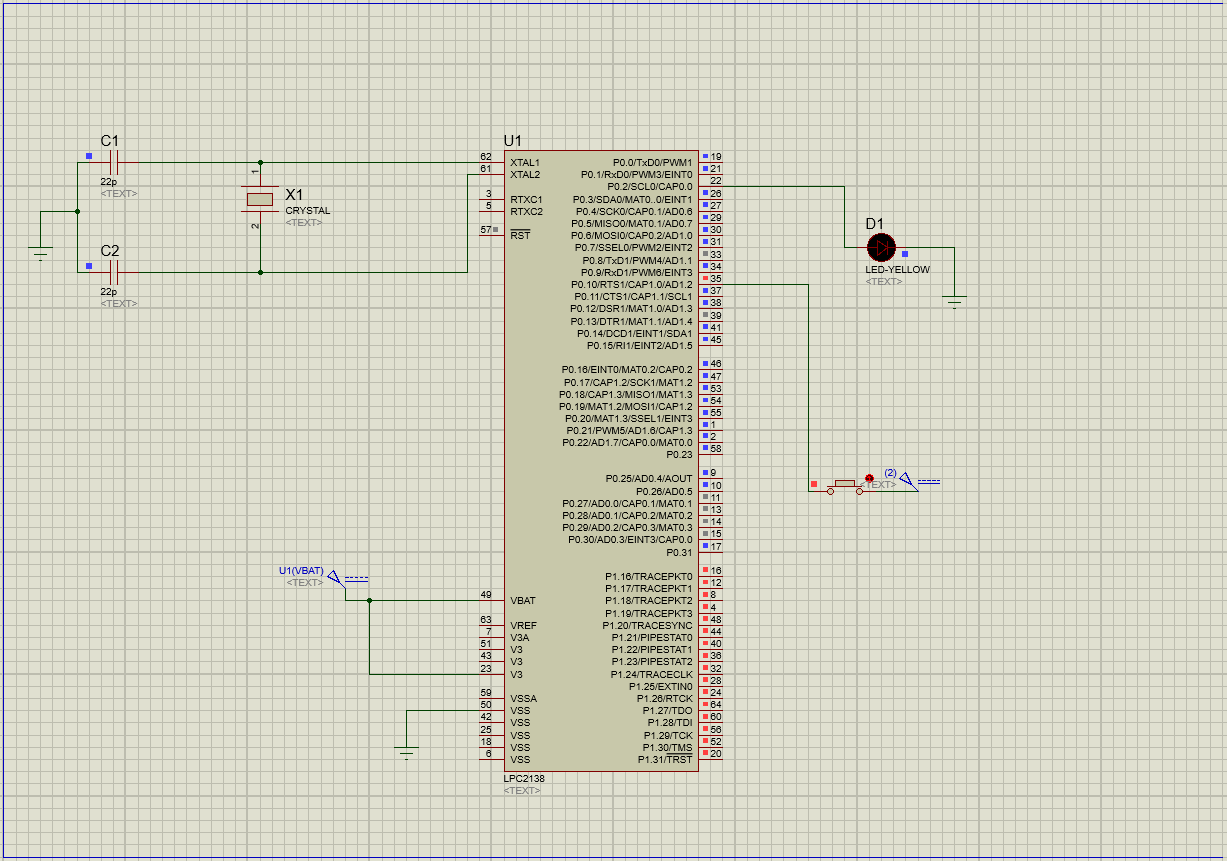
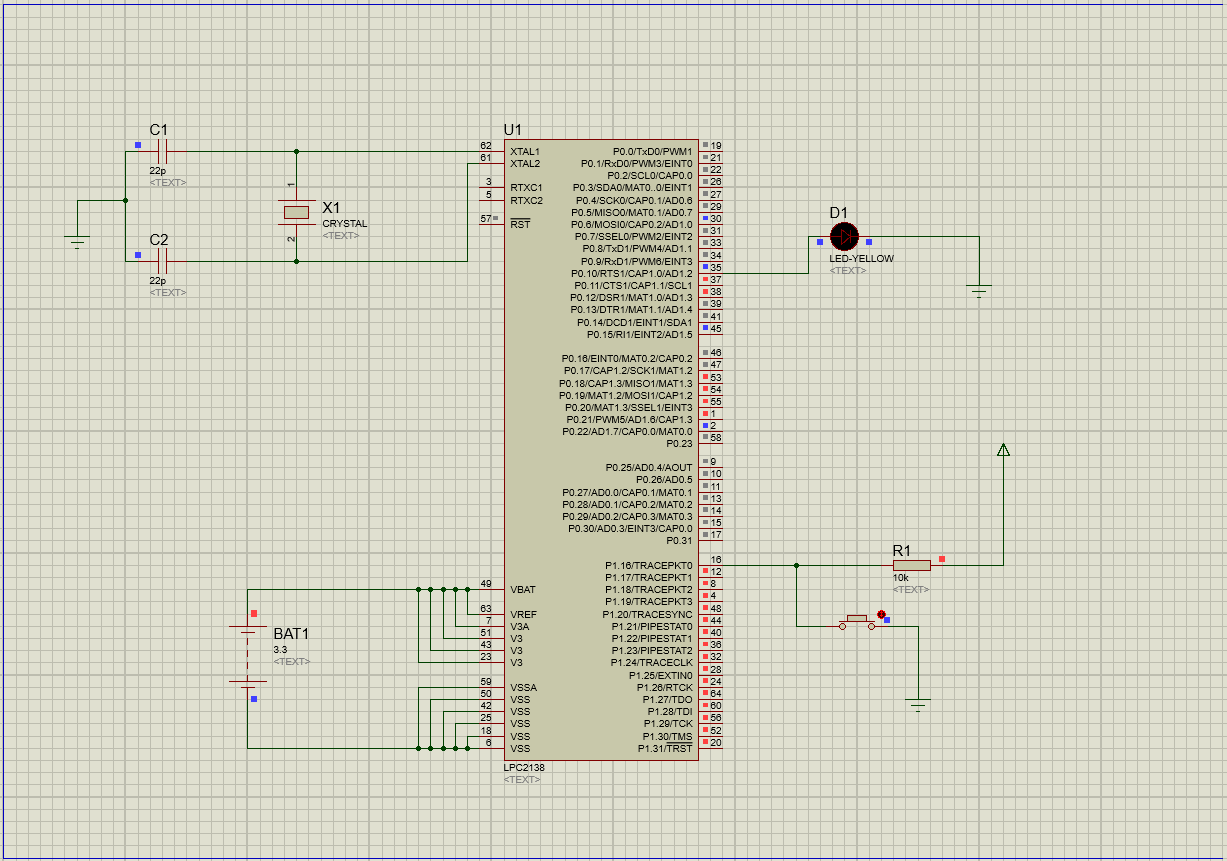
Completed

Changed region(s): [[0.0, 0.0, 1.0, 1.0]]

diff --git a/README.md b/README.md
@@ -118,27 +118,33 @@ Step 9: Select the hex file from the Kiel program folder and import the program 
 
 ## KIEL PROGRAM: 
 ```
-#include <LPC214x.h>   // define LPC2148 Header file
-#define led (1<<2)     // led macro for pin 2 of port0
-#define sw (1<<10)     // sw macro for pin 10 of port0
-int main(void)
+#include <lpc214x.h>
+
+// Input switches
+#define SW1	0x00010000				// P1.16
+
+// Output LEDs
+#define LED_D9	0x00000400 			// P0.10
+
+int main ()
 {
-	unsigned int x;
-	IO0DIR|=(~sw);   // configure P1.24 - P1.31 as input
-	IO0DIR|=led;     // configure P1.16 - P1.23 as output
+	IO0DIR = 0x003C3C00 ;			// Configure P0.10 to P0.13 and P0.18 to P0.21 as Output	
+	IO0SET = 0x003C3C00 ;			// SET (1) P0.10 to P0.13 and P0.18 to P0.21, LEDs OFF
 	while(1)
 	{
-		x = IOPIN0 & sw;   //save status of sw in variable x
-		if(x==sw)          // if switch open
+		
+		if(!(IO1PIN & SW1))			// Check whether SW1 is pressed or not
 		{
-			IOCLR0|=led; // LED off
+			IO0CLR = LED_D9 ;		// LED D9, ON if SW1 pressed
 		}
-		else               // if switch close
+		else
 		{
-			IOSET0 = led;  // LED on
+			IO0SET = LED_D9 ;		// LED D9, OFF if SW1 released
 		}
+		
 	}
 }
+
 ```
 ## OUTPUT:
 * BEFORE SWITCHING ON LED:
